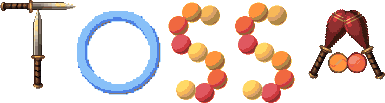
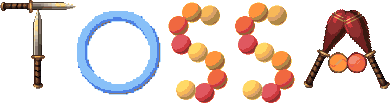
A longer club, and eleven torches that the pipeline throws out
THE CLUB IS LONGER AND EXACTLY AS WIDE (Louis: "make the juggling club just a
tiny bit longer on both the handle and the upper part (save the original tho,
since it looks good right now)"). Card 23x77 -> 23x88, STAGE_H 64 -> 73, stage
sprite 19x64 -> 19x73. Those two numbers HAVE to move together: derive_stage_props
takes the stage width from the card's aspect at a fixed STAGE_H, so bumping only
STAGE_H squashes the club and bumping only the card fattens it. The previous pair
is kept as big_club_short.png / club_short.png, and build_club() reads the SHORT
card rather than the live one - reading its own output would be idempotent exactly
once and lengthen the club again every run after that.

The pivot moved with it, 0.558 -> 0.545. That is not a tuning number; it is the
same feature (a quarter into the handle's collar) re-expressed against a longer
sprite. Left alone the club would spin about a point that is no longer its balance.

The two halves grow by different mechanisms because they are different things.
The handle takes exactly one more six-row wrap period - the smallest step that
keeps the knife's rhythm and the only step that does. The body is a painting, so
it is stretched by duplicating rows, and only below its two gold bands: each band
is one pixel tall, and a resample landing on one turns a pinstripe into a stripe.

grip_sequence() replaces torch_sequence() so both props share it. It shifts 7
[…]

diff --git a/scripts/reshape_shaft_props.py b/scripts/reshape_shaft_props.py
@@ -95,6 +95,29 @@ KNIFE_TAIL = (74, 79)
 
 TORCH_GROWTH = 1.5       # Louis: "let the diameter grow 50% over the entire length"
 
+# THE CLUB IS LENGTHENED, AND ONLY LENGTHENED (2026-08-15, Louis: "make the juggling club just
+# a tiny bit longer on both the handle and the upper part ... save the original tho"). The
+# previous card is kept as `big_club_short.png` / `club_short.png`.
+#
+# **LONGER IS NOT BIGGER, and the derivation is what keeps them apart.** derive_stage_props
+# sets the stage width from the card's aspect at a fixed `STAGE_H`, so growing the card's
+# HEIGHT and `STAGE_H["club"]` by the same fraction leaves the stage width where it was: 23 x
+# 64/77 = 19 before, 23 x 73/88 = 19 after. Grow one without the other and the club either gets
+# fatter or gets squashed.
+#
+# The two parts grow differently because they are made of different things. The handle grows by
+# exactly ONE six-row tile - the smallest step that leaves the knife's wrap rhythm intact, and
+# the only step that does. The body is a painting, so it is resampled by duplicating rows, and
+# only BELOW its two gold bands: the bands are one pixel tall each, and a nearest resample that
+# happens to land on one turns it into a two-pixel band, which at stage size is the difference
+# between a pinstripe and a stripe. Rows 4..14 are copied untouched for that reason and the
+# stretch is confined to the plain taper under them, where a duplicated row is invisible.
+CLUB_BODY_TOP = 4        # first row of the painted crimson body
+CLUB_BODY_KEEP = 14      # ...and the last row copied verbatim: the dome and both gold bands
+CLUB_BODY_BOT = 45       # the last row of the body, where the handle's collar begins
+CLUB_BODY_GROW = 5       # extra rows of taper
+CLUB_HANDLE_EXTRA = 1    # extra six-row wrap periods; the knife's own handle is 0
+
 
 def handle_rows(y0: int, y1: int):
     """Rows y0..y1 of the knife's handle as lists of RGB, centre-aligned.
@@ -112,19 +135,18 @@ def handle_rows(y0: int, y1: int):
     return out
 
 
-def torch_sequence(rows):
-    """The knife's handle stretched to the torch's 53 rows, rib rhythm intact.
+def grip_sequence(extra_tiles: int = 0):
+    """The knife's handle, optionally lengthened by whole six-row wrap periods.
 
-    Returns (source rows in order, per-row excess over the grip's own 8px width).
+    `extra_tiles = 0` is the knife's own 35 rows VERBATIM and contiguous - which is what makes
+    the club a byte-for-byte transplant rather than a near-copy. Extra tiles are spliced in at
+    a period boundary, just before the plain run-out, so the rhythm never breaks: 41 rows for
+    the club (one extra), 53 for the torch (three).
     """
-    collar = list(range(KNIFE_HANDLE_TOP, KNIFE_GRIP_TOP))          # 50..53
-    cap = list(range(KNIFE_GRIP_BOT + 1, KNIFE_HANDLE_BOT + 1))     # 80..84
-    lead = list(range(KNIFE_LEAD[0], KNIFE_LEAD[1] + 1))            # 54..61, plain then a rib
-    tile = list(range(KNIFE_TILE[0], KNIFE_TILE[1] + 1))            # 62..67, one wrap period
-    tail = list(range(KNIFE_TAIL[0], KNIFE_TAIL[1] + 1))            # 74..79, plain run-out
-    seq = collar + lead + tile * 5 + tail + cap
-    excess = [len(rows[y]) - KNIFE_GRIP_W for y in seq]
-    return seq, excess
+    base = list(range(KNIFE_HANDLE_TOP, KNIFE_HANDLE_BOT + 1))
+    tile = list(range(KNIFE_TILE[0], KNIFE_TILE[1] + 1))
+    at = base.index(KNIFE_TAIL[0])
+    return base[:at] + tile * extra_tiles + base[at:]
 
 
 def blit_rows(a: np.ndarray, y0: int, rows, seq, cx: float, widths=None) -> None:
@@ -147,12 +169,27 @@ def blit_rows(a: np.ndarray, y0: int, rows, seq, cx: float, widths=None) -> None
 
 
 def build_club() -> Image.Image:
-    """The knife's handle, transplanted. No stretch, no recolour, no redraw."""
-    a = np.asarray(Image.open(PROPS / "big_club.png").convert("RGBA")).copy()
+    """The knife's handle transplanted onto a body stretched a little longer.
+
+    THE BODY IS READ FROM `big_club_short.png`, NOT FROM THE LIVE CARD, and that is the whole
+    reason the short original is kept in the repo rather than only in git. Reading the card
+    this script writes would be idempotent exactly once and then lengthen the club again on
+    every run - the same trap `STAGE_H` is a written-down table to avoid.
+    """
+    src = np.asarray(Image.open(PROPS / "big_club_short.png").convert("RGBA"))
+    a = np.zeros_like(src)
+    top, keep, bot = CLUB_BODY_TOP, CLUB_BODY_KEEP, CLUB_BODY_BOT
+
+    a[top:keep + 1] = src[top:keep + 1]          # the dome and both one-pixel gold bands
+    n_src = bot - keep                           # the plain taper, 31 rows
+    n_dst = n_src + CLUB_BODY_GROW
+    for j in range(n_dst):
+        # NEAREST, i.e. whole rows duplicated. Interpolating would mix two palette entries,
+        # and on a taper it would also blur the silhouette's own edge into a half-pixel.
+        a[keep + 1 + j] = src[keep + 1 + int(round(j * (n_src - 1) / (n_dst - 1)))]
+
     rows = handle_rows(KNIFE_HANDLE_TOP, KNIFE_HANDLE_BOT)
-    seq = list(range(KNIFE_HANDLE_TOP, KNIFE_HANDLE_BOT + 1))
-    a[46:] = 0                                  # the painted crimson body is rows 4..45
-    blit_rows(a, 46, rows, seq, 23.0)
+    blit_rows(a, keep + 1 + n_dst, rows, grip_sequence(CLUB_HANDLE_EXTRA), 23.0)
     return Image.fromarray(a, "RGBA")
 
 
@@ -207,7 +244,8 @@ def build_torch() -> Image.Image:
 
     # --- THE HANDLE: the knife's, tapering 8 at the foot to 12 at the shoulder.
     top, bot = wick_y + wick_h, 92
-    seq, excess = torch_sequence(rows)
+    seq = grip_sequence(3)
+    excess = [len(rows[y]) - KNIFE_GRIP_W for y in seq]
     n = bot - top + 1
     assert len(seq) == n, f"handle sequence is {len(seq)} rows, the torch has {n}"
 

diff --git a/scripts/derive_stage_props.py b/scripts/derive_stage_props.py
@@ -89,7 +89,12 @@ TARGETS = {"club": 0, "knife": 0, "torch": 0, "chainsaw": 90}
 # WHY THESE ARE WRITTEN DOWN RATHER THAN MEASURED OFF THE FILE. The old code read the height
 # of the sprite already on disk, which is fine exactly once and doubles the prop every run
 # after that. A target table is idempotent and says what the intended size IS.
-STAGE_H = {"club": 64, "knife": 62, "torch": 78, "chainsaw": 96}
+# The club went 64 -> 73 on 2026-08-15 (Louis: "a tiny bit longer on both the handle and the
+# upper part"). It had to move WITH the card's height, not instead of it: the stage width is
+# derived from the card's aspect at this height, so 23x77 at 64 and 23x88 at 73 both come out
+# 19 wide. Bumping only this number would have squashed the club; bumping only the card would
+# have made it fatter. `club_short.png` / `big_club_short.png` are the previous pair.
+STAGE_H = {"club": 73, "knife": 62, "torch": 78, "chainsaw": 96}
 
 ALPHA_CUT = 0.42     # coverage a reduced pixel needs to survive as opaque
 

diff --git a/CLAUDE.md b/CLAUDE.md
@@ -299,6 +299,25 @@ screen pixels tall and some three. Callers that place hands themselves must snap
   between that sleeve and the wick.
   **The wordmark has to be rebaked after any of this**, since its A is two clubs and its T a
   knife, and `mark_prop` blits `prop_big/*` rather than drawing them.
+- **LONGER IS NOT BIGGER, AND THE DERIVATION IS WHAT KEEPS THEM APART** (2026-08-15, Louis: "make
+  the juggling club just a tiny bit longer on both the handle and the upper part"). The stage
+  width comes from the card's ASPECT at a fixed `STAGE_H`, so the card's height and `STAGE_H`
+  have to move together: 23x77 at 64 and 23x88 at 73 both derive to 19 wide. Bump only
+  `STAGE_H` and the club is squashed; bump only the card and it is fatter. The previous pair is
+  kept on disk as `big_club_short.png` / `club_short.png` (Louis: "save the original tho"), and
+  `build_club()` READS the short card rather than the live one - reading its own output would
+  be idempotent exactly once and lengthen the club again on every run after that, the same trap
+  `STAGE_H` is a written-down table to avoid.
+  **A PIVOT IS A FRACTION, SO CHANGING A PROP'S LENGTH MOVES IT.** `prop/club`'s pivot went
+  0.558 -> 0.545, which is not a tuning number: it is the same FEATURE, a quarter of the way
+  into the handle's collar, re-expressed against a longer sprite. Leave it and the club spins
+  about a point that is no longer its balance.
+  **The two halves grow by different mechanisms because they are different things.** The handle
+  grows by exactly one six-row wrap period - the smallest step that keeps the knife's rhythm,
+  and the only step that does. The body is a painting, so it is stretched by duplicating rows,
+  and only BELOW its two gold bands: each band is one pixel tall, and a resample that lands on
+  one turns a pinstripe into a stripe. Copy the dome and the bands verbatim; stretch only the
+  plain taper under them, where a duplicated row cannot be seen.
 - **THE FLAME BAND IS FOUND BY ONE TEST AND CLEARED BY TWO.** (The specific collision below is
   gone now that the grip is leather and owns no near-whites, but the rule stands: the strip is
   the only thing standing between a repaint and a baked flame under the live one.) Once the
